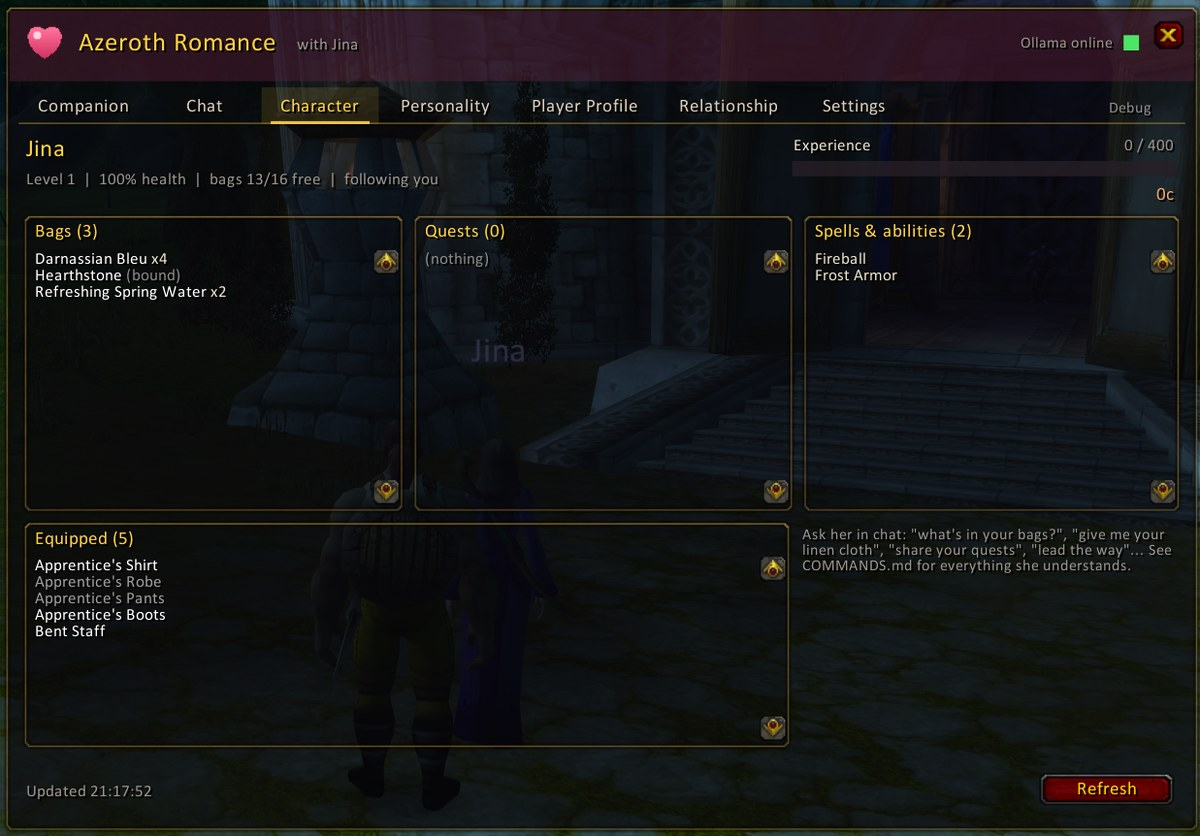
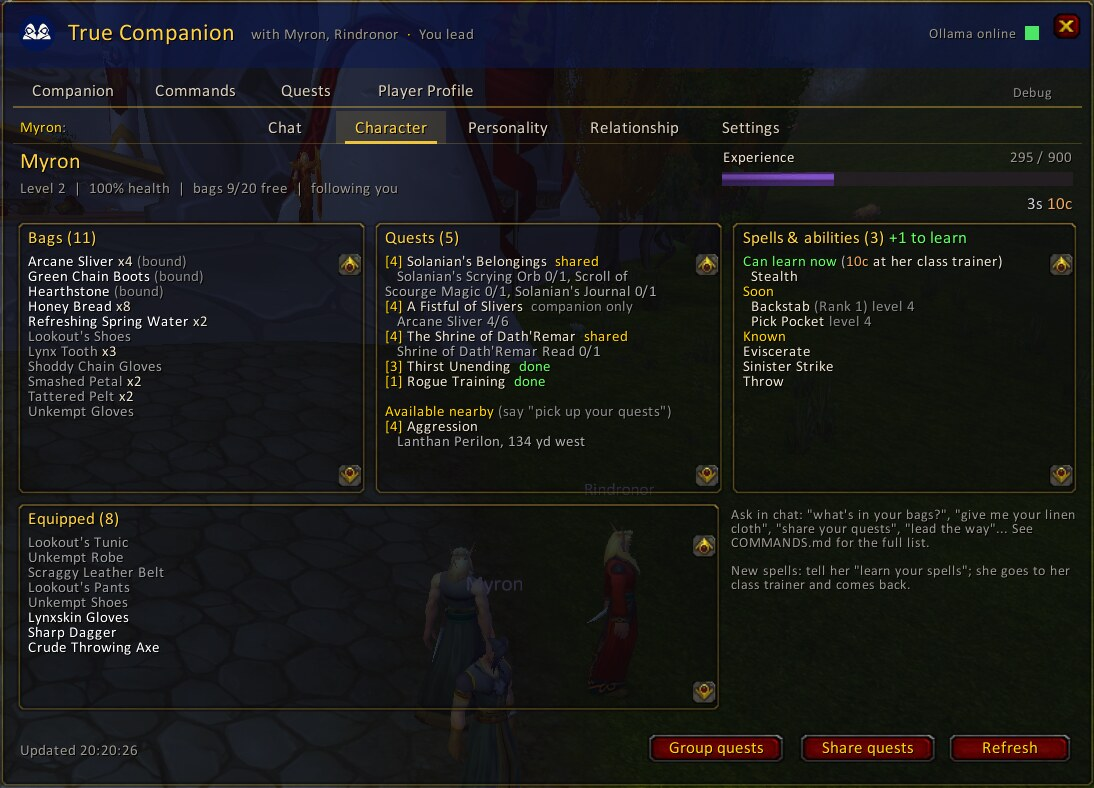
README: new screenshots
Companion, Quests and Character tabs of True Companion 2.0.0 and companions
answering in party chat. The old chat screenshot still showed Azeroth
Romance and is gone.

Changed region(s): [[0.0, 0.0, 1.0, 1.0], [0.3729, 0.7005, 0.4662, 0.8528], [0.5283, 0.6701, 0.5905, 0.7614]]

diff --git a/README.md b/README.md
@@ -14,9 +14,13 @@ The in-game interface is the companion addon: **[azerothcore-true-companion-addo
 
 ## Screenshots
 
-| Companion | Chat | Character |
+| Companion | Quests | Character |
 |---|---|---|
-| ![Companion tab](docs/images/companion.jpg) | ![Chat tab](docs/images/chat.jpg) | ![Character tab](docs/images/character.jpg) |
+| ![Companion tab](docs/images/companion.jpg) | ![Quests tab](docs/images/quests.jpg) | ![Character tab](docs/images/character.jpg) |
+
+Two companions in party chat, each answering for themselves:
+
+![Party chat](docs/images/party-chat.jpg)
 
 A companion's memory after a short questing session (editable in the addon):
 
